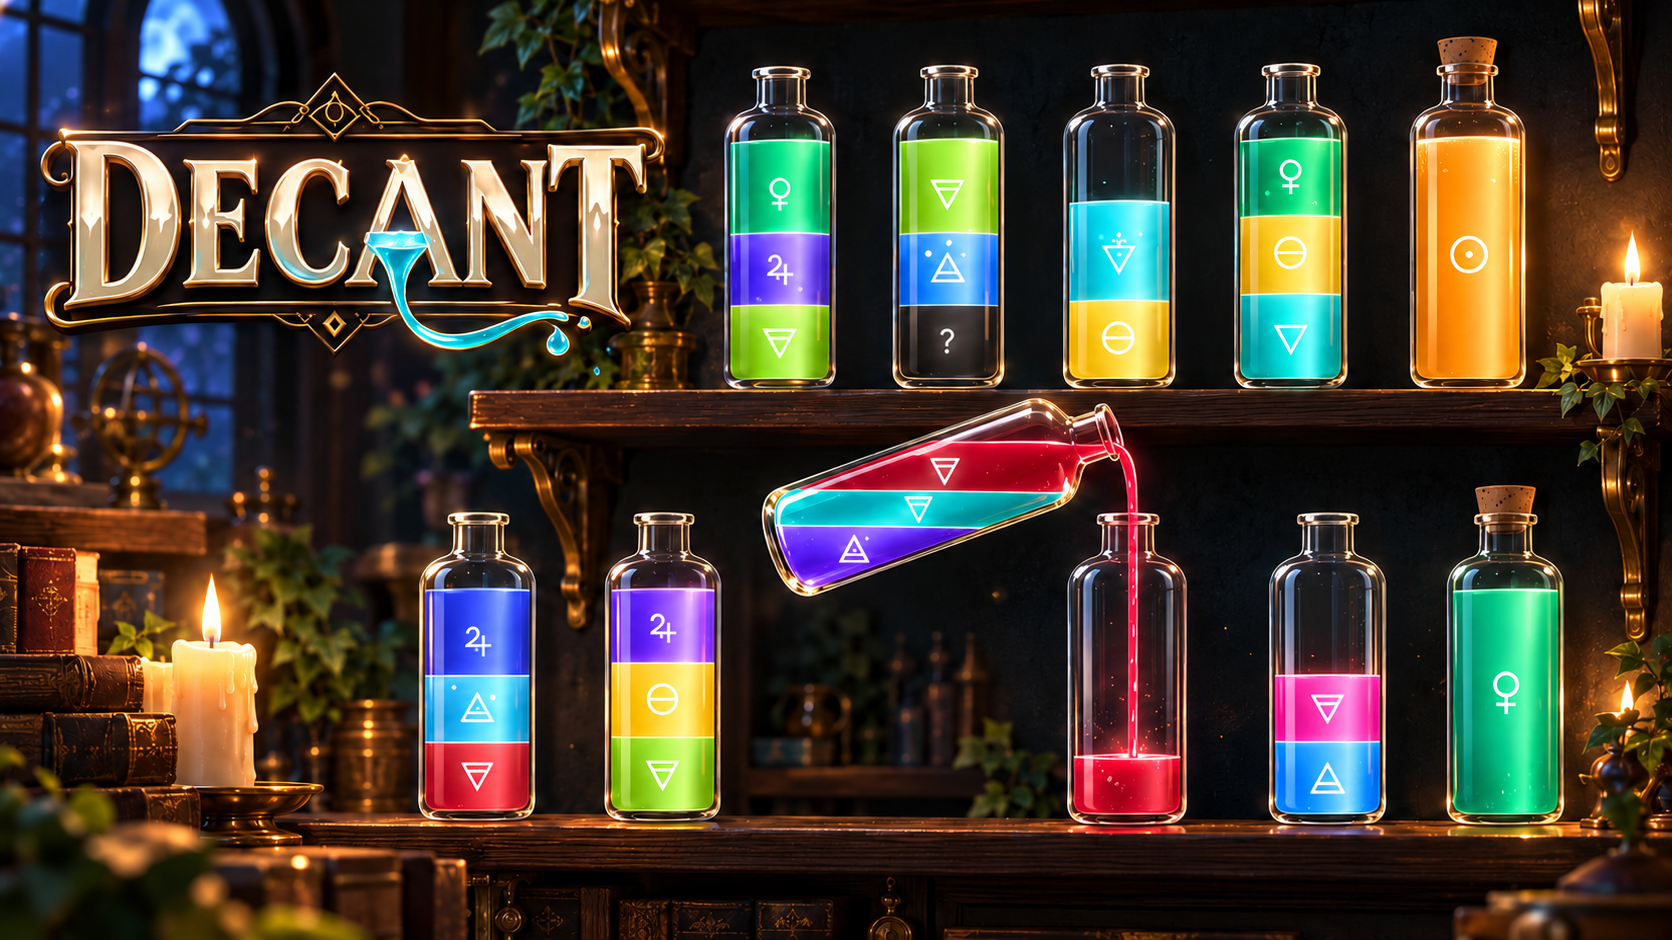
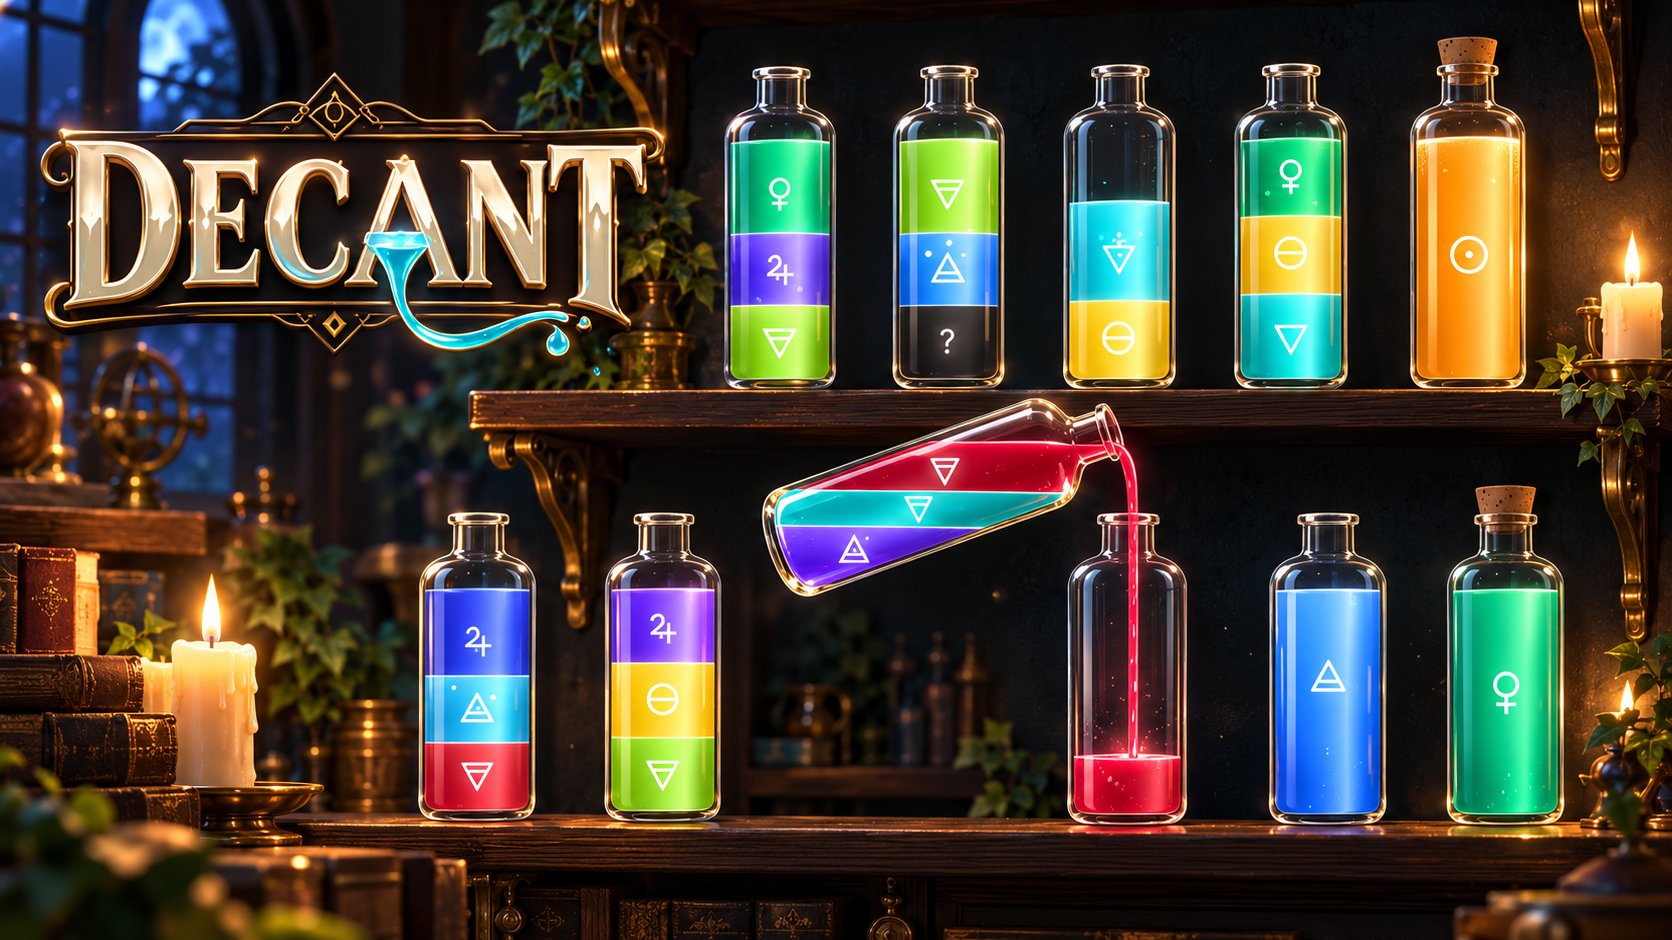
Decant: the owner's updated key art
Replaces the featured piece shipped minutes earlier (one bottle on the
lower shelf is now a single blue potion), with its card and share image
rebuilt from it. The shared featured-art version moves to 7 so every
browser fetches the new piece.

diff --git a/toys/decant/index.html b/toys/decant/index.html
@@ -27,7 +27,7 @@
     <meta property="og:title" content="Decant — One Page Toys" />
     <meta property="og:description" content="A candlelit shelf of glowing potions, all mixed up. Pour them back and forth until every potion has a bottle of its own." />
     <meta property="og:url" content="https://onepagetoys.com/toys/decant/" />
-    <meta property="og:image" content="https://onepagetoys.com/assets/og/decant.jpg?v=d6c6e751" />
+    <meta property="og:image" content="https://onepagetoys.com/assets/og/decant.jpg?v=90ef5c87" />
     <meta property="og:image:width" content="1200" />
     <meta property="og:image:height" content="630" />
     <meta property="og:image:type" content="image/jpeg" />
@@ -35,7 +35,7 @@
     <meta name="twitter:card" content="summary_large_image" />
     <meta name="twitter:title" content="Decant — One Page Toys" />
     <meta name="twitter:description" content="Pour glowing potions between bottles until every color has a bottle of its own." />
-    <meta name="twitter:image" content="https://onepagetoys.com/assets/og/decant.jpg?v=d6c6e751" />
+    <meta name="twitter:image" content="https://onepagetoys.com/assets/og/decant.jpg?v=90ef5c87" />
     <script type="application/ld+json">
       {
         "@context": "https://schema.org",

diff --git a/assets/main.js b/assets/main.js
@@ -1359,7 +1359,7 @@ function renderNewestPanel() {
       // same rule as the home spotlight: key art paints every longhand inline so
       // no [data-slug] card motif can bleed through it
       const prev = sec.querySelector(".card__preview");
-      if (prev) prev.style.background = '#07070b url("/assets/featured/' + t.slug + '.webp?v=6") center / cover no-repeat';
+      if (prev) prev.style.background = '#07070b url("/assets/featured/' + t.slug + '.webp?v=7") center / cover no-repeat';
     }
   }
 
@@ -1410,7 +1410,7 @@ function renderHomeHero() {
       prev.removeAttribute("data-slug");
       prev.classList.add("card__preview--art");
       prev.style.background =
-        '#07070b url("/assets/featured/' + t.slug + '.webp?v=6") center / cover no-repeat';
+        '#07070b url("/assets/featured/' + t.slug + '.webp?v=7") center / cover no-repeat';
       // the art carries the toy's own logo, so the heading would just repeat it:
       // keep it for screen readers only and let the panel re-space itself
       sec.classList.add("home-featured--art");

diff --git a/assets/styles.css b/assets/styles.css
@@ -1112,7 +1112,7 @@ code, kbd{ font-family: var(--font-mono); font-size: 0.9em; }
 .card__preview[data-slug="glass-harp"]{ background: #05070f url("cards/glass-harp.png") center / cover no-repeat; }
 .card__preview[data-slug="chord-harp"]{ background: #0a0913 url("cards/chord-harp.png") center / cover no-repeat; }
 .card__preview[data-slug="barkeep"]{ background: #0b0706 url("cards/barkeep.png") center / cover no-repeat; }
-.card__preview[data-slug="decant"]{ background: #05070d url("cards/decant.webp?v=872587a8") center 0% / cover no-repeat; }
+.card__preview[data-slug="decant"]{ background: #05070d url("cards/decant.webp?v=f4759c5a") center 0% / cover no-repeat; }
 .card__preview[data-slug="jettison"]{ background: #05070d url("cards/jettison.webp?v=c1620ff3") center 0% / cover no-repeat; }
 .card__preview[data-slug="meld"]{ background: #05070d url("cards/meld.webp?v=08930822") center 25% / cover no-repeat; }
 .card__preview[data-slug="maw"]{ background: #05070d url("cards/maw.webp?v=864e9c01") center 0% / cover no-repeat; }

diff --git a/all-toys/simulation/index.html b/all-toys/simulation/index.html
@@ -64,7 +64,7 @@
         } catch (e) {}
       })();
     </script>
-    <link rel="stylesheet" href="../../assets/styles.css?v=127" />
+    <link rel="stylesheet" href="../../assets/styles.css?v=128" />
   </head>
   <body data-gallery-mode="all" data-cat="simulation">
     <a class="skip-link" href="#main-content">Skip to content</a>
@@ -295,7 +295,7 @@
       </div>
     </footer>
 
-    <script src="../../assets/main.js?v=127" defer></script>
+    <script src="../../assets/main.js?v=128" defer></script>
     <script src="../../assets/theme.js?v=8" defer></script>
     <script src="../../assets/tickets.js?v=32" defer></script>
     <script src="../../assets/prizes.js?v=1" defer></script>

diff --git a/all-toys/wellness/index.html b/all-toys/wellness/index.html
@@ -64,7 +64,7 @@
         } catch (e) {}
       })();
     </script>
-    <link rel="stylesheet" href="../../assets/styles.css?v=127" />
+    <link rel="stylesheet" href="../../assets/styles.css?v=128" />
   </head>
   <body data-gallery-mode="all" data-cat="wellness">
     <a class="skip-link" href="#main-content">Skip to content</a>
@@ -295,7 +295,7 @@
       </div>
     </footer>
 
-    <script src="../../assets/main.js?v=127" defer></script>
+    <script src="../../assets/main.js?v=128" defer></script>
     <script src="../../assets/theme.js?v=8" defer></script>
     <script src="../../assets/tickets.js?v=32" defer></script>
     <script src="../../assets/prizes.js?v=1" defer></script>

diff --git a/all-toys/utility/index.html b/all-toys/utility/index.html
@@ -64,7 +64,7 @@
         } catch (e) {}
       })();
     </script>
-    <link rel="stylesheet" href="../../assets/styles.css?v=127" />
+    <link rel="stylesheet" href="../../assets/styles.css?v=128" />
   </head>
   <body data-gallery-mode="all" data-cat="utility">
     <a class="skip-link" href="#main-content">Skip to content</a>
@@ -295,7 +295,7 @@
       </div>
     </footer>
 
-    <script src="../../assets/main.js?v=127" defer></script>
+    <script src="../../assets/main.js?v=128" defer></script>
     <script src="../../assets/theme.js?v=8" defer></script>
     <script src="../../assets/tickets.js?v=32" defer></script>
     <script src="../../assets/prizes.js?v=1" defer></script>

diff --git a/all-toys/visual/index.html b/all-toys/visual/index.html
@@ -64,7 +64,7 @@
         } catch (e) {}
       })();
     </script>
-    <link rel="stylesheet" href="../../assets/styles.css?v=127" />
+    <link rel="stylesheet" href="../../assets/styles.css?v=128" />
   </head>
   <body data-gallery-mode="all" data-cat="visual">
     <a class="skip-link" href="#main-content">Skip to content</a>
@@ -295,7 +295,7 @@
       </div>
     </footer>
 
-    <script src="../../assets/main.js?v=127" defer></script>
+    <script src="../../assets/main.js?v=128" defer></script>
     <script src="../../assets/theme.js?v=8" defer></script>
     <script src="../../assets/tickets.js?v=32" defer></script>
     <script src="../../assets/prizes.js?v=1" defer></script>

diff --git a/all-toys/audio/index.html b/all-toys/audio/index.html
@@ -64,7 +64,7 @@
         } catch (e) {}
       })();
     </script>
-    <link rel="stylesheet" href="../../assets/styles.css?v=127" />
+    <link rel="stylesheet" href="../../assets/styles.css?v=128" />
   </head>
   <body data-gallery-mode="all" data-cat="audio">
     <a class="skip-link" href="#main-content">Skip to content</a>
@@ -295,7 +295,7 @@
       </div>
     </footer>
 
-    <script src="../../assets/main.js?v=127" defer></script>
+    <script src="../../assets/main.js?v=128" defer></script>
     <script src="../../assets/theme.js?v=8" defer></script>
     <script src="../../assets/tickets.js?v=32" defer></script>
     <script src="../../assets/prizes.js?v=1" defer></script>

diff --git a/all-toys/game/index.html b/all-toys/game/index.html
@@ -64,7 +64,7 @@
         } catch (e) {}
       })();
     </script>
-    <link rel="stylesheet" href="../../assets/styles.css?v=127" />
+    <link rel="stylesheet" href="../../assets/styles.css?v=128" />
   </head>
   <body data-gallery-mode="all" data-cat="game">
     <a class="skip-link" href="#main-content">Skip to content</a>
@@ -295,7 +295,7 @@
       </div>
     </footer>
 
-    <script src="../../assets/main.js?v=127" defer></script>
+    <script src="../../assets/main.js?v=128" defer></script>
     <script src="../../assets/theme.js?v=8" defer></script>
     <script src="../../assets/tickets.js?v=32" defer></script>
     <script src="../../assets/prizes.js?v=1" defer></script>

diff --git a/all-toys/index.html b/all-toys/index.html
@@ -64,7 +64,7 @@
         } catch (e) {}
       })();
     </script>
-    <link rel="stylesheet" href="../assets/styles.css?v=127" />
+    <link rel="stylesheet" href="../assets/styles.css?v=128" />
   </head>
   <body data-gallery-mode="all">
     <a class="skip-link" href="#main-content">Skip to content</a>
@@ -297,7 +297,7 @@
       </div>
     </footer>
 
-    <script src="../assets/main.js?v=127" defer></script>
+    <script src="../assets/main.js?v=128" defer></script>
     <script src="../assets/theme.js?v=8" defer></script>
     <script src="../assets/tickets.js?v=32" defer></script>
     <script src="../assets/prizes.js?v=1" defer></script>

diff --git a/index.html b/index.html
@@ -60,7 +60,7 @@
         } catch (e) {}
       })();
     </script>
-    <link rel="stylesheet" href="assets/styles.css?v=127" />
+    <link rel="stylesheet" href="assets/styles.css?v=128" />
   </head>
   <body data-gallery-mode="home">
     <a class="skip-link" href="#main-content">Skip to content</a>
@@ -289,7 +289,7 @@
       </div>
     </footer>
 
-    <script src="assets/main.js?v=127" defer></script>
+    <script src="assets/main.js?v=128" defer></script>
     <script src="assets/theme.js?v=8" defer></script>
     <script src="assets/tickets.js?v=32" defer></script>
     <script src="assets/prizes.js?v=1" defer></script>

diff --git a/store/index.html b/store/index.html
@@ -53,7 +53,7 @@
         } catch (e) {}
       })();
     </script>
-    <link rel="stylesheet" href="../assets/styles.css?v=127" />
+    <link rel="stylesheet" href="../assets/styles.css?v=128" />
     <link rel="stylesheet" href="store.css?v=7" />
   </head>
   <body data-store>
